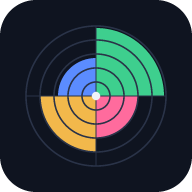
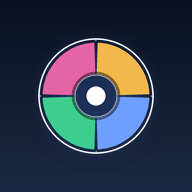
Иконка: современное колесо баланса на все размеры (v1.4.68)

diff --git a/index.html b/index.html
@@ -31,7 +31,9 @@
 <link rel="dns-prefetch" href="https://cdnjs.cloudflare.com">
 <link rel="stylesheet" href="https://cdnjs.cloudflare.com/ajax/libs/tabler-icons/3.44.0/tabler-icons.min.css">
 <meta name="theme-color" content="#0f1420">
-<link rel="icon" href="./icon-192.png">
+<link rel="icon" type="image/png" sizes="32x32" href="./icon-32.png">
+<link rel="icon" type="image/png" sizes="192x192" href="./icon-192.png">
+<link rel="apple-touch-icon" sizes="180x180" href="./icon-180.png">
 <link rel="apple-touch-icon" href="./icon-192.png">
 <meta name="mobile-web-app-capable" content="yes">
 <meta name="apple-mobile-web-app-capable" content="yes">
@@ -1715,7 +1717,7 @@
    - PATCH (2): +1 на каждое изменение версии, начиная с 2.
    APP_VERSION is the only place to bump: footer, About panel and tests read it;
    package.json / manifest.json / sw.js are synced to the same value. */
-const APP_VERSION = '1.4.67';
+const APP_VERSION = '1.4.68';
 /* ===== Wish board constants =====
    Declared high up on purpose: loadState() runs near the top of this script and calls
    ensureWishMap(), which enforces these limits — declaring them lower would blow up in the

diff --git a/sw.js b/sw.js
@@ -4,13 +4,15 @@
 //
 // Версия кэша = версия приложения (см. APP_VERSION в index.html): каждый бамп версии
 // гарантированно сносит старый кэш у всех, кто уже установил приложение, и тянет свежие файлы.
-const CACHE_NAME = 'goal-tracker-v1.4.67';
+const CACHE_NAME = 'goal-tracker-v1.4.68';
 const ASSETS = [
   './', 
   './index.html',
   './manifest.json',
   './icon-192.png',
   './icon-512.png',
+  './icon-180.png',
+  './icon-32.png',
   './quotes.js'
 ];
 // Версия ЭТОГО воркера (из CACHE_NAME 'goal-tracker-vX.Y.Z'). Используется для самолечения:

diff --git a/README.md b/README.md
@@ -60,6 +60,7 @@
 — Владимир
 
 ## История изменений
+- **v1.4.68** (19.11.2026) — **Иконка приложения обновлена и покрыта всеми размерами.** Сохранённый дизайн колеса баланса перерисован современно: 4 цветных сектора (зелёный, розовый, янтарный, голубой) как кольца достижений, градиентный тёмный фон, белая ступица по центру и деления по ободу. Добавлены размеры `icon-32.png` (favicon) и `icon-180.png` (apple-touch-icon для iOS); 192/512 обновлены из одного мастера на 1024px (LANCZOS). `sw.js` кэширует новые иконки. Версия синхронизирована (index.html, package.json, manifest.json, sw.js кэш). 394 теста зелёные.
 - **v1.4.67** (19.11.2026) — **Навигация по коду без изменения поведения.** В начало inline-скрипта добавлена «КАРТА КОДА» (секции и приблизительные строки), в начало `<style>` — «ИНДЕКС CSS» (16 секций + красные линии тач-режима), рядом с `let state` — «SCHEMA STATE» (форма дерева, инварианты колеса, модули `state.*` и обязательные `ensure*` при подмене). JSDoc добавлен к 40 публичным функциям из `EXPORT_SRC`. Новые сторож-тесты: карта/индекс/схема не пропадают, у ключевого API есть JSDoc. В AGENTS.md §4 добавлена развилка «документация vs рантайм» (докправки версию не бампят). Версия синхронизирована (index.html, package.json, manifest.json, sw.js кэш). 394 теста зелёные.
 - **v1.4.66** (19.11.2026) — **«Победы за неделю»: пустая рефлексия больше не сохраняется.** Сохранение формы с пустыми (или состоящими из пробелов) ответами создавало пустую запись в `state.goodTodayWeekReflections`, из-за чего блок показывал «отчёт сохранён» без текста. Теперь `q1/q2/q3` обрезаются, и если все три пусты — запись не создаётся и не перезаписывается (прежний сохранённый текст остаётся). Рендер сохранённой рефлексии (текущая неделя и история) показывает только заполненные вопросы, а `ensureGoodToday` выбрасывает пустые записи из старых сохранений. Версия синхронизирована (index.html, package.json, manifest.json, sw.js кэш). 392 теста зелёные.
 - **v1.4.63** (15.11.2026) — **Цели: убран стабильный id у поля ввода названия.** Поле ввода названия цели (`goal-input`) больше не имеет `id` — фиксированный `id` приводил к тому, что при перерисовке (`render()` через `innerHTML`) фокус и выделение текста восстанавливались некорректно, из-за чего при вводе названия новой цели появлялись лишние буквы. Фокус на поле новой цели восстанавливается явно в `focusGoalInput()` сразу после `render()`. Версия синхронизирована (index.html, package.json, manifest.json, sw.js кэш). 387 тестов зелёные.
